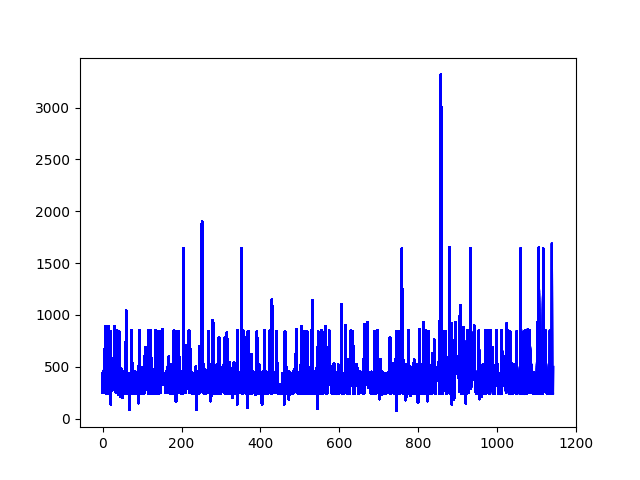
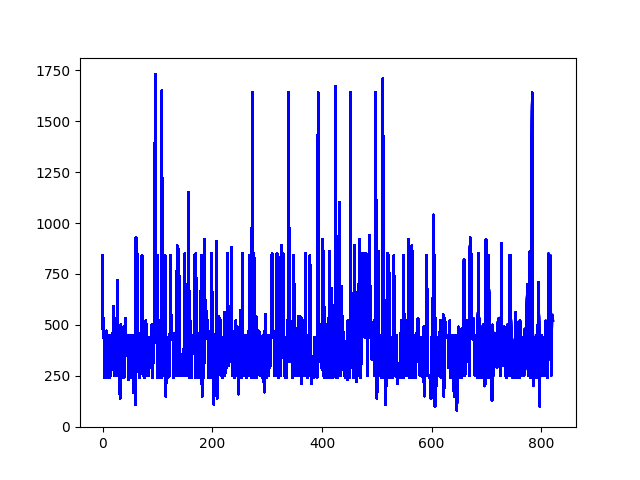
performance test upgrade

diff --git a/performance_tests/performance_test0.py b/performance_tests/performance_test0.py
@@ -58,7 +58,7 @@ import matplotlib.pyplot as plt
 
 
 if __name__ == "__main__":
-    EPISODES = 2500
+    EPISODES = 1000
     ALL_SCORES = np.zeros(EPISODES)
 
     env = gym.make('MsPacman-ram-v0')
